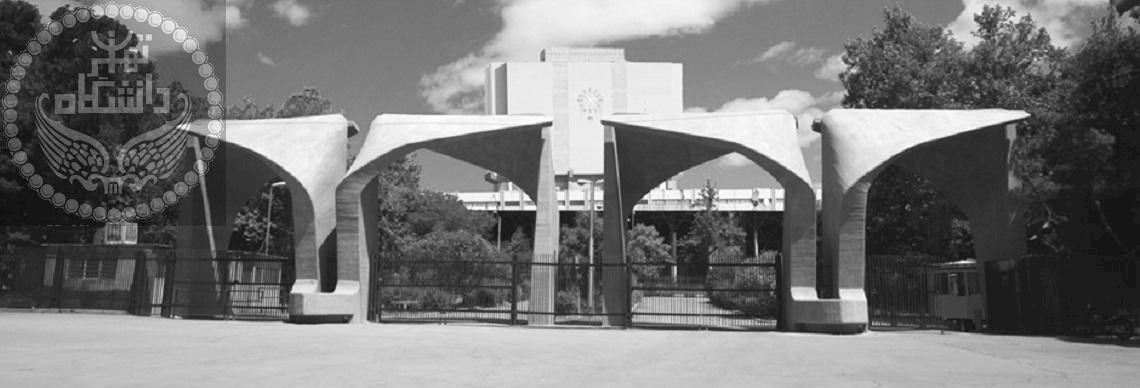
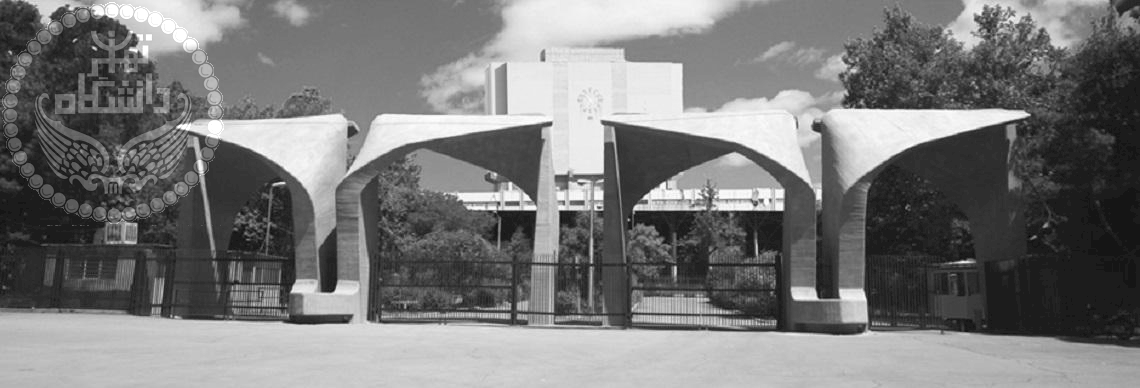
Fix blending darkness Q4

Changed region(s): [[0.0, 0.0, 0.2149, 0.5567], [0.0921, 0.5567, 0.1228, 0.5876], [0.0921, 0.3711, 0.1228, 0.4021]]

diff --git a/CA2/Q4/main.cpp b/CA2/Q4/main.cpp
@@ -51,13 +51,13 @@ int main()
             }
             else
             {
-                if((int)(3*f_ptr[j]/4 + l_ptr[j]/4) > 255)
+                if((unsigned)(f_ptr[j]) + (unsigned)(l_ptr[j])*(0.25) > (unsigned)(255))
                 {
                     f_ptr[j] = 255;
                 }
                 else
                 {
-                    f_ptr[j] = 3*f_ptr[j]/4 + l_ptr[j]/4; 
+                    f_ptr[j] = f_ptr[j] + l_ptr[j]/4; 
                 }
             }
         }
@@ -81,7 +81,7 @@ int main()
     Mat plimg = imread(LOGO_IMG, IMREAD_GRAYSCALE);
     Mat pfimg = imread(FRONT_IMG, IMREAD_GRAYSCALE);
 
-    __m128i_u pf, pl, pftemp;
+    __m128i_u pf, pl/*, pftemp*/;
     
     gettimeofday(&start, NULL);
     sparallel = clock();
@@ -91,30 +91,30 @@ int main()
         {
             if(i <= LOW_ROW && j <= LOW_COL-M128_GRAY_INTERVAL)
             {
-                pf = _mm_loadu_si128(reinterpret_cast<__m128i*>(
+                pf = _mm_loadu_si128(reinterpret_cast<__m128i_u*>(
                     pfimg.data + (i * pfimg.cols) + j));
-                pl = _mm_loadu_si128(reinterpret_cast<__m128i*>(
+                pl = _mm_loadu_si128(reinterpret_cast<__m128i_u*>(
                     plimg.data + (i * plimg.cols) + j));
                 
                 // Divide by 4 
                 // 00 --> xxxx xxxx xxxx xx --> xx
                 // 00xx xxxx xxxx xxxx --> 00xx xxxx 00xx xxxx
                 pl = _mm_srli_epi16(pl, 2);
-                pf = _mm_srli_epi16(pf, 2);
+                // pf = _mm_srli_epi16(pf, 2);
                 pl = _mm_and_si128(pl, _mm_set1_epi16(0xFF3F));
-                pf = _mm_and_si128(pf, _mm_set1_epi16(0xFF3F));
-                pftemp = pf;
+                // pf = _mm_and_si128(pf, _mm_set1_epi16(0xFF3F));
+                // pftemp = pf;
                 
                 // Multiply front by 3 achieving 0.75
                 // x <-- xxx xxxx xxxx xxxx <--0
                 // xxxx xxxx xxxx xxx0
                 // xxxx xxx0 xxxx xxx0
-                pf = _mm_slli_epi16(pf, 1);
-                pf = _mm_and_si128(pf, _mm_set1_epi16(0xFEFF));
-                pf = _mm_add_epi8(pf, pftemp);
+                // pf = _mm_slli_epi16(pf, 1);
+                // pf = _mm_and_si128(pf, _mm_set1_epi16(0xFEFF));
+                // pf = _mm_add_epi8(pf, pftemp);
 
-                _mm_storeu_si128(reinterpret_cast<__m128i*>(
-                    pfimg.data + (i * pfimg.cols) + j), _mm_add_epi8(pl, pf));
+                _mm_storeu_si128(reinterpret_cast<__m128i_u*>(
+                    pfimg.data + (i * pfimg.cols) + j), _mm_adds_epu8(pl, pf));
             }
         }
     }
